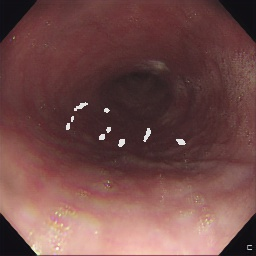
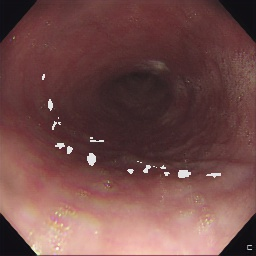
YACASIIII

diff --git a/Método de corrección/pruebaSimularRE.py b/Método de corrección/pruebaSimularRE.py
@@ -109,7 +109,8 @@ for pp in range(len(ila)):
     coordenadas[0:numero,0:2]=pos
     j=0
     simu_f=img_1.copy()
-    
+    mask_f=img_1[:,:,1].copy()
+    mask_f[:,:]=0
     while j <= (numero-1):
         p= random.randint(0, len(datos)-1)
         print(datos['nombres'][p])
@@ -118,7 +119,7 @@ for pp in range(len(ila)):
         ho,wo,co=img.shape
         print(ho,wo,co)
         jj=0
-        tamaños=[8,10,14,13,15,17]
+        tamaños=[8,10,14,13,15,17,22,25]
         while jj <= (1):
             pp= random.randint(0, len(tamaños)-1)
             pp2= random.randint(0, len(tamaños)-1)
@@ -130,6 +131,8 @@ for pp in range(len(ila)):
         coordenadas[j,3]=h
         y=coordenadas[j,1]
         x=coordenadas[j,0]
+        
+        mask_f[int(y):int(y+h),int(x):int(x+w)]=mask
         
         mask_img=img_1[int(y):int(y+h),int(x):int(x+w)].copy()
     
@@ -147,6 +150,7 @@ for pp in range(len(ila)):
     #    cv2.waitKey(0)
     #    cv2.destroyAllWindows()
         simu_f[int(y):int(y+h),int(x):int(x+w)]=mask_img+imagen_2
+      
     #    cv2.imshow('RE',simu_f)
     #    cv2.waitKey(0)
     #    cv2.destroyAllWindows()
@@ -160,3 +164,7 @@ for pp in range(len(ila)):
     cv2.waitKey(0)
     cv2.destroyAllWindows()
     cv2.imwrite('./bbox/corregidas/'+image,simu_f)
+    mask_f= cv2.normalize(mask_f, None, 0, 255, norm_type=cv2.NORM_MINMAX, dtype=cv2.CV_8UC3)  
+    cv2.imwrite('./bbox/corregidas/seg_'+image,mask_f)
+    
+       
